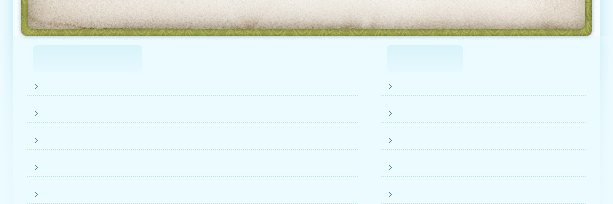
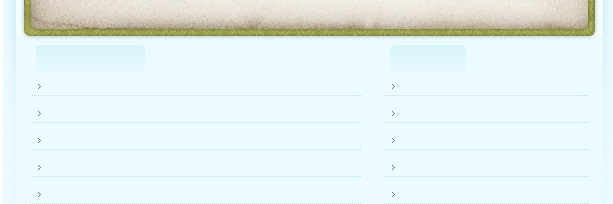
Version 2 del aula virtual... Se le agrego el inicio de sesion.

diff --git a/Desarrollo/aulaVirtual (Symfony)/web/css/style.css b/Desarrollo/aulaVirtual (Symfony)/web/css/style.css
@@ -251,6 +251,7 @@ form, input, textarea{
 	width: 909px;
 	margin-top: 0px;
 	height: auto;
+    left: -5px;
 }
 
 
@@ -269,12 +270,10 @@ form, input, textarea{
 
 #contentPagPpal{ 
 	
+	float: left;
 	background:url(../images/content_extender.png) 0 0;
 	background-repeat: repeat-y;
-	
-	width:600px;
-	height: 755px;
-	vertical-align:top;
+	margin: 0px 0 0 1px;
 }
 
 #contentPagPpalforo{
@@ -294,7 +293,6 @@ form, input, textarea{
 	background-repeat: repeat-y;
 	margin: 0px 0 0 1px;
 	width:615px;
-	height: 353px;
 }
 
 #contentPagPpal3{ 
@@ -308,12 +306,11 @@ form, input, textarea{
 
 #content_top { background:url(../images/content_top.jpg) no-repeat left top;}
 
-#contentInicioSesion{ 
+#contentInicioSesion{
 	float: left;
 	background:url(../images/content_extender.png) 0 0;
 	background-repeat: repeat-y;
 	margin: 0px 0 0 1px;
-
 }
 
 .post{ 
@@ -422,6 +419,14 @@ entry-content h6{
 	margin: 290px 0 0 562px;
 }
 
+.paperclip5{
+	background: url(../images/paperclip.png) no-repeat 0 0;
+	position: relative;
+	width: 62px;
+	height: 35px;
+	margin: 290px 0 0 562px;
+}
+
 .paperclip2{
 	background: url(../images/paperclip2.png) no-repeat 0 0;
 	position: relative;
@@ -471,7 +476,7 @@ entry-content h6{
 	width: 309px;
 	height: 200px;
 	margin-left: 599px;
-	margin-top: -255px;
+	margin-top: -249px;
 }
 
 #sidebarInicioSesion2{
@@ -595,8 +600,15 @@ h1.logo a{
 	float: left;
 	background:url(../images/footer.jpg) no-repeat;
 	margin-left: 1px;
-	left: -14px;
-	top: 705px;
+	left: 171px;
+	top: 1065px;
+}
+#footer3{
+	float: left;
+	background:url(../images/footer3.jpg) no-repeat;
+	margin-left: 1px;
+	left: 171px;
+	top: 1065px;
 }
 
 #footer a{

diff --git a/Desarrollo/aulaVirtual (Symfony)/web/css/style_.css b/Desarrollo/aulaVirtual (Symfony)/web/css/style_.css
@@ -295,7 +295,6 @@ form, input, textarea{
 	background:url(../images/content_extender.png) 0 0;
 	background-repeat: repeat-y;
 	margin: 0px 0 0 1px;
-
 }
 
 .post{ 
@@ -451,7 +450,9 @@ entry-content h6{
 	width: 309px;
 	height: 200px;
 	margin-left: 599px;
-	margin-top: -255px;
+	margin-top: -249px;
+	left: 175px;
+	top: 566px;
 }
 
 #sidebarInicioSesion2{

diff --git a/Desarrollo/aulaVirtual (Symfony)/cache/frontend/dev/config/modules_lapsos_config_security.yml.php b/Desarrollo/aulaVirtual (Symfony)/cache/frontend/dev/config/modules_lapsos_config_security.yml.php
@@ -1,6 +1,6 @@
 <?php
 // auto-generated by sfSecurityConfigHandler
-// date: 2010/05/12 21:12:15
+// date: 2010/05/18 18:16:50
 $this->security = array (
   'all' => 
   array (

diff --git a/Desarrollo/aulaVirtual (Symfony)/cache/frontend/dev/config/modules_pers_config_security.yml.php b/Desarrollo/aulaVirtual (Symfony)/cache/frontend/dev/config/modules_pers_config_security.yml.php
@@ -1,6 +1,6 @@
 <?php
 // auto-generated by sfSecurityConfigHandler
-// date: 2010/05/12 21:00:31
+// date: 2010/05/18 16:25:21
 $this->security = array (
   'all' => 
   array (
